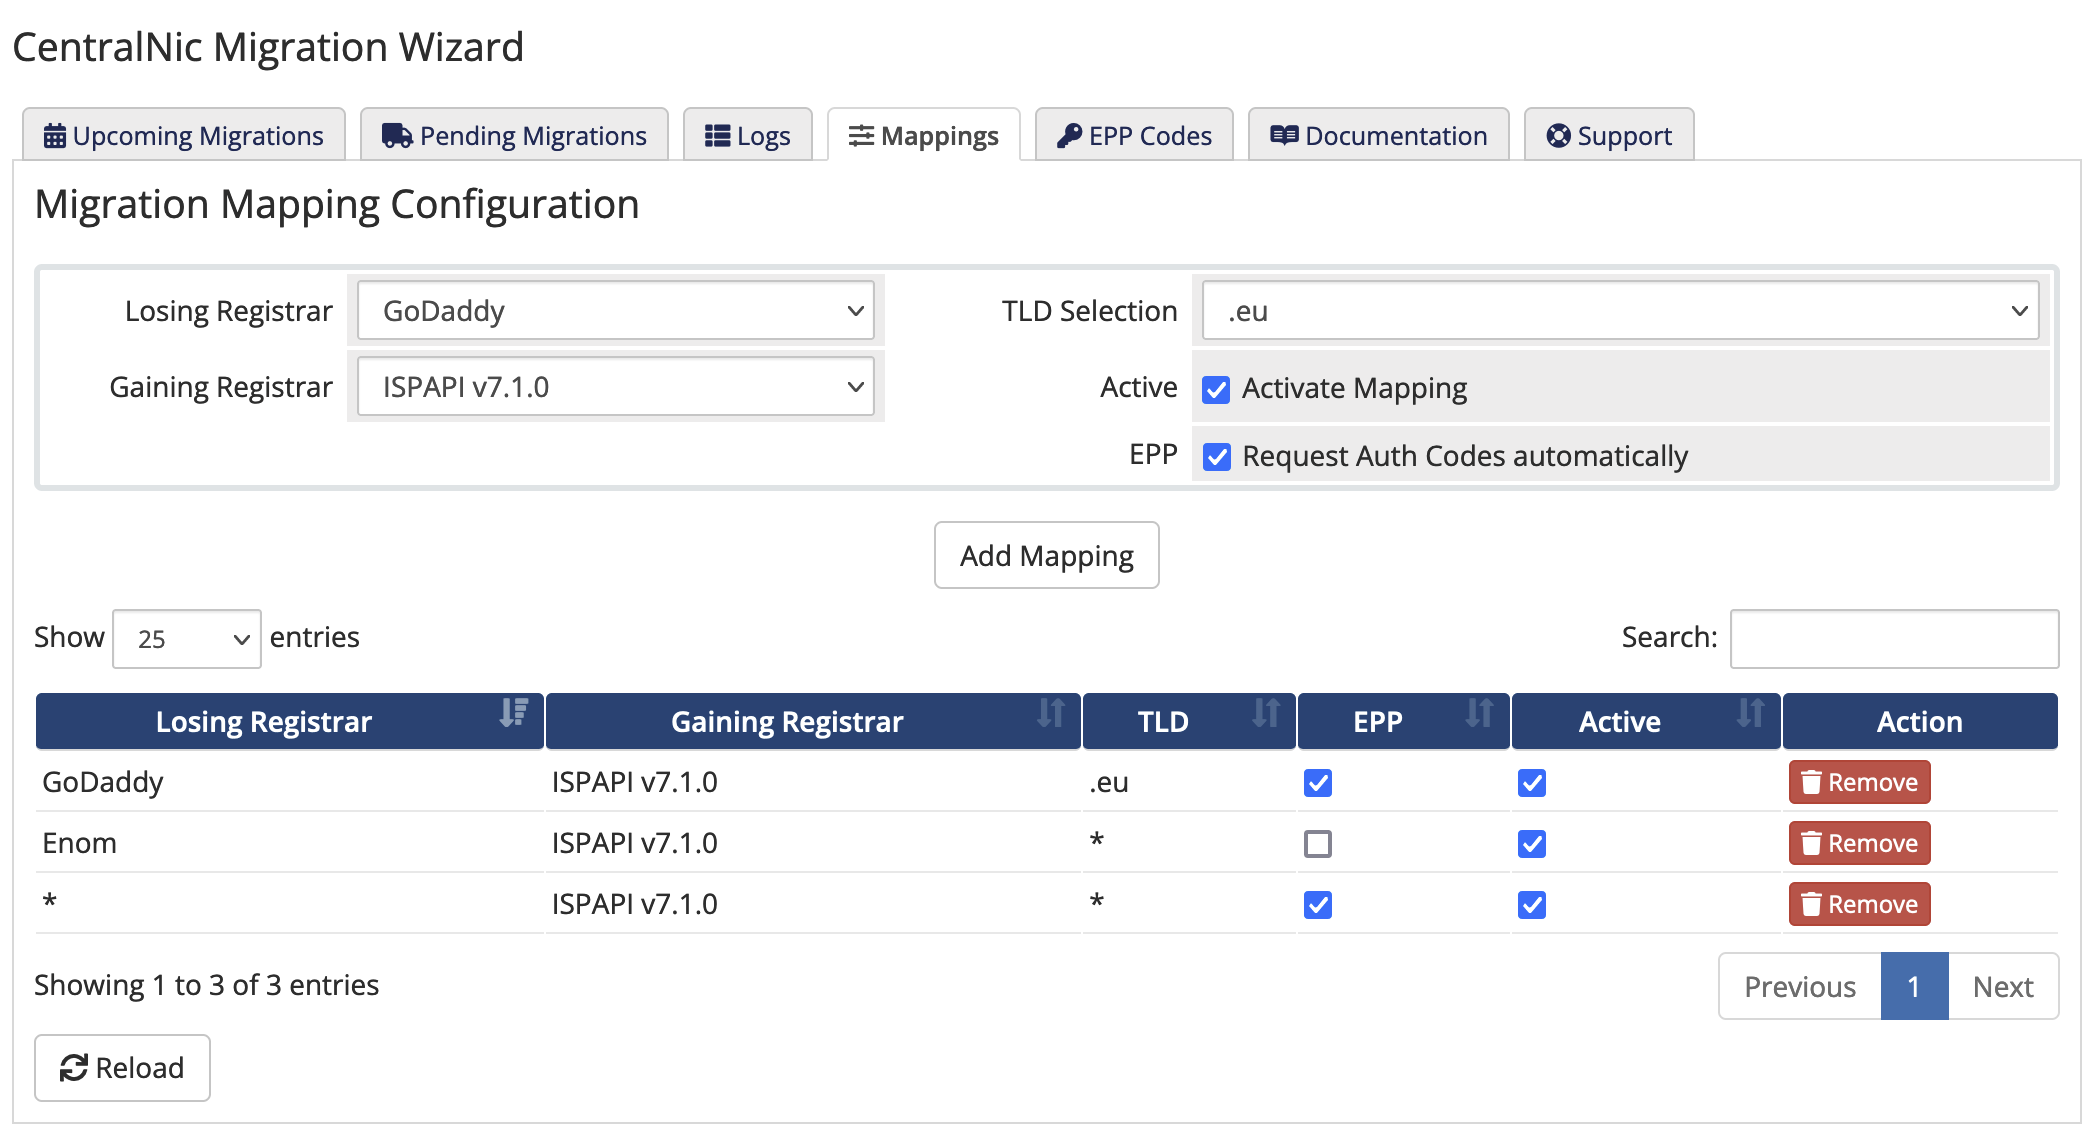
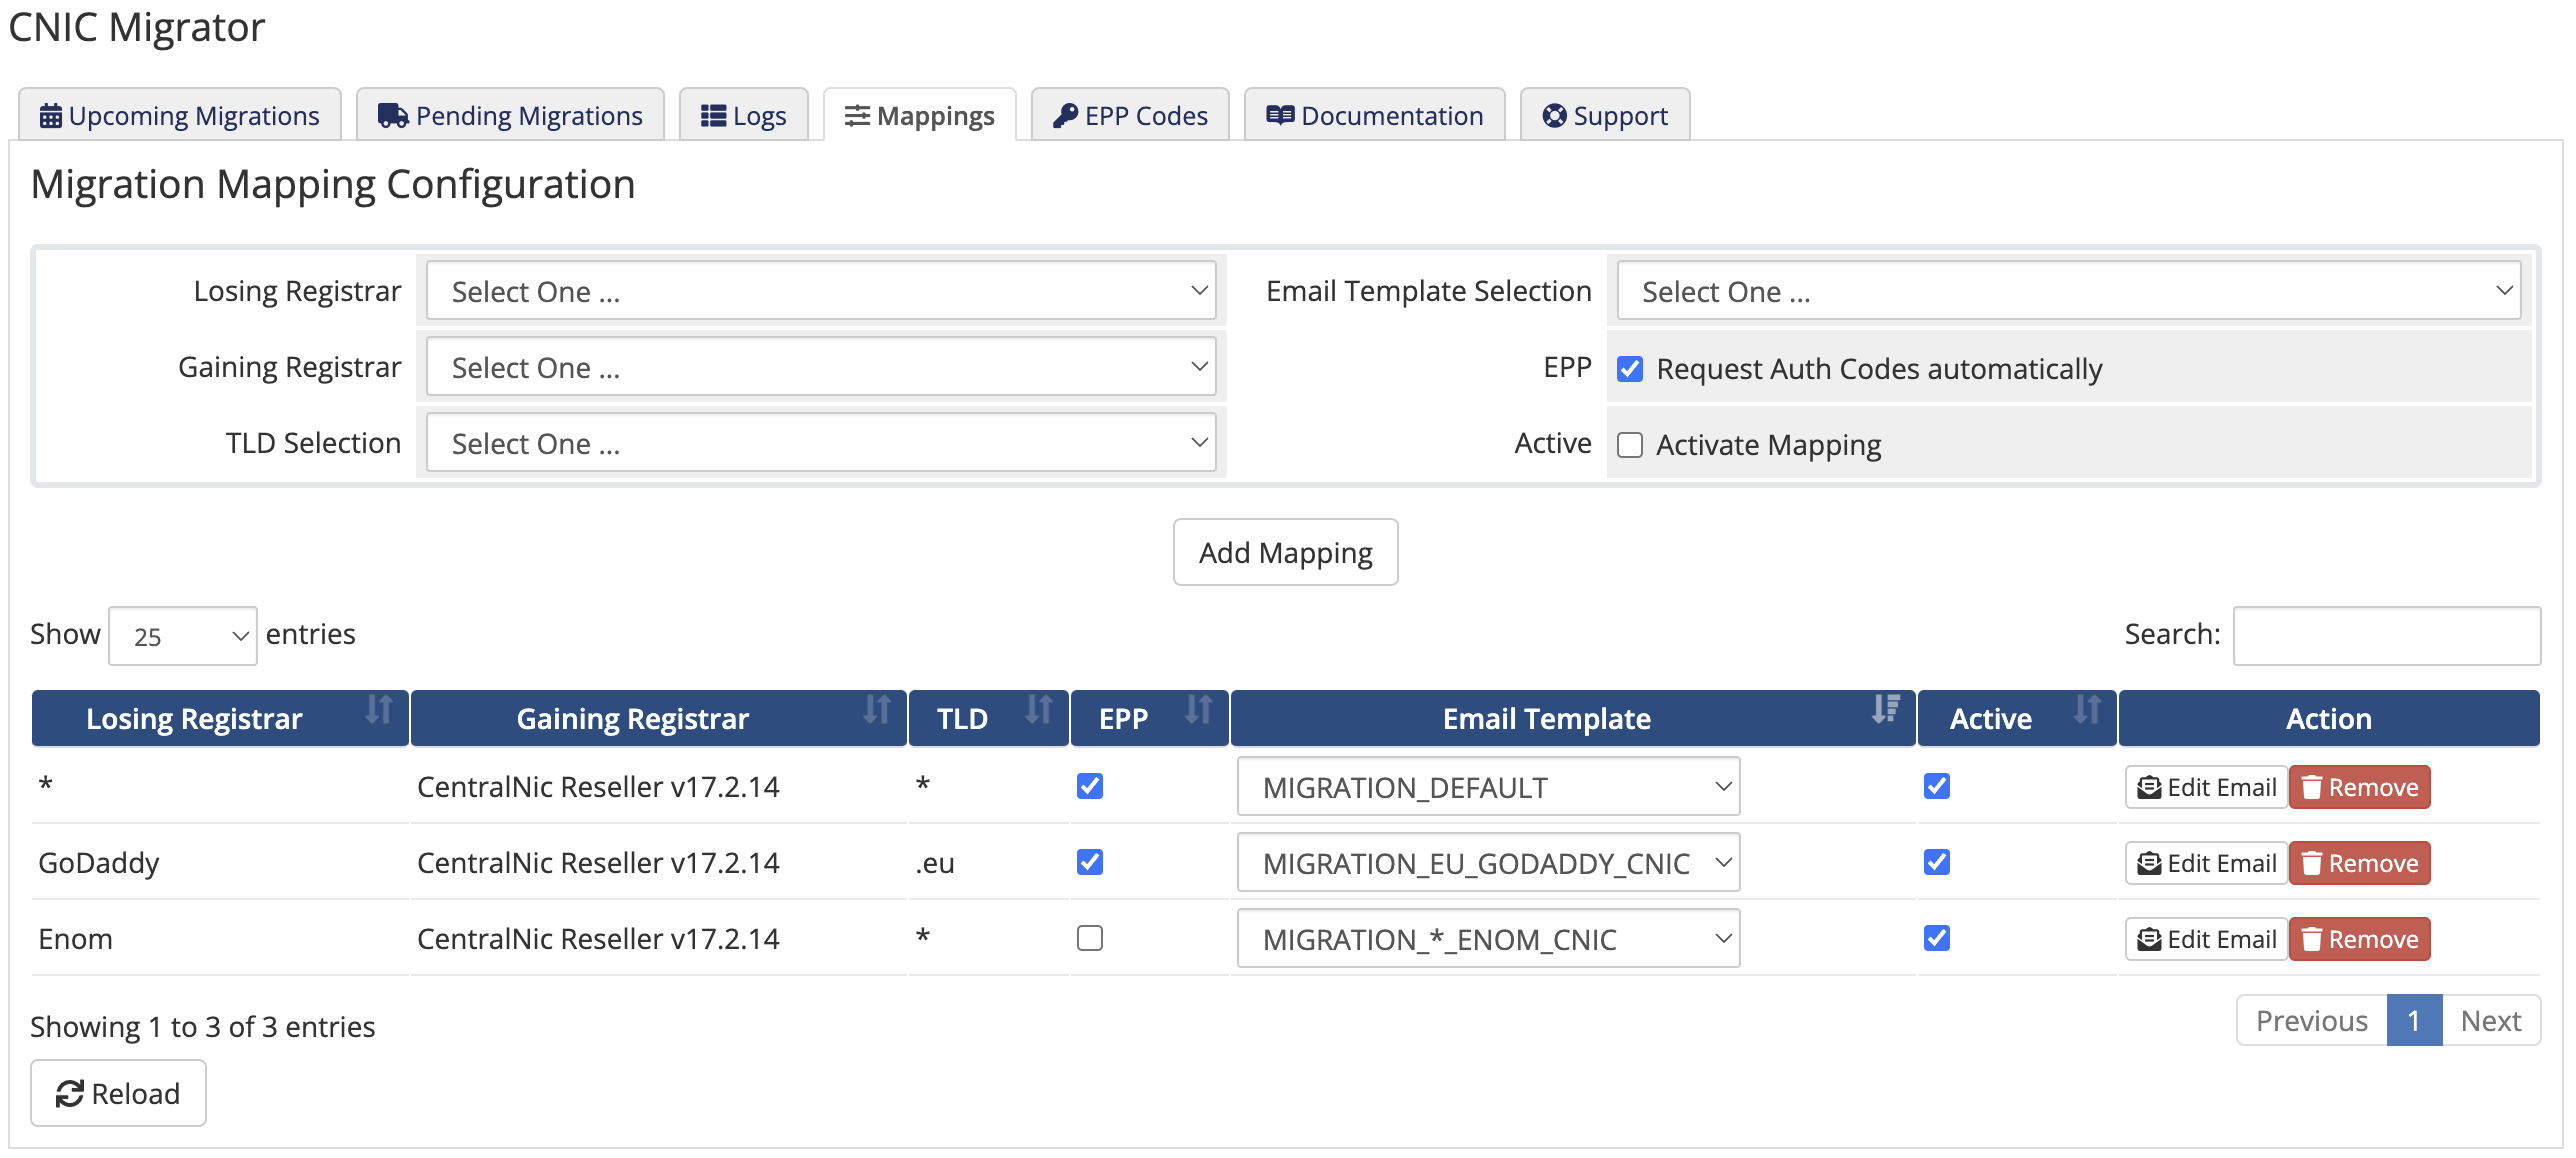
docs(migrator addon): update migrator addon documentation

diff --git a/_includes/whmcs-migration.md b/_includes/whmcs-migration.md
@@ -52,8 +52,6 @@ Download available via [WHMCS Marketplace](https://marketplace.whmcs.com/product
 
 **Don't touch files where the filename starts with `dist.*`. That are default files and templates, partially used as fallback or within automated tests. Follow the below instructions to get this tool correctly up and running.**
 
-{% include whmcs-bundle-upgrade.md %}
-
 Finally, navigate to `Configuration > System Settings > Addon Modules` in your WHMCS Admin Area, then click on `Activate` next to the `CNIC Migrator` listing.
 
 ### Re-Configure WHMCS
@@ -95,7 +93,7 @@ In the WHMCS Admin Area, navigate to `Addons > CNIC Migrator`, then click on the
 
 ![adminareaerror]({{ 'assets/images/whmcs/cnic-migration/mappings.png' | relative_url }})
 
-Here you can define your desired mappings, specifying the desired losing and gaining registrars, any specific TLD, and wether the migrator should automatically retrieve the EPP auth codes via the losing registrar's WHMCS module.
+Here you can define your desired mappings, specifying the desired losing and gaining registrars, any specific TLD, and wether the migrator should automatically retrieve the EPP auth codes via the losing registrar's WHMCS module. You can also specify which e-mail template you want to use for client notifications.
 
 ### EPP/Authorization Codes
 
@@ -104,6 +102,7 @@ The migrator will attempt to retrieve the EPP code automatically via the losing 
 Some registrars however, do not support this functionality. Their module will return an error, but send the code out to the current registrant's email address instead. So, not reliable for real-time processing. A good example is the registrar Enom.
 
 As a workaround, you should get hold of the EPP codes manually (for example by requesting it and having your customer send you the code they recieve via e-mail). Then, you can specify those EPP codes beforehand in the `EPP Codes` tab in the Addon.
+You may also upload a CSV file containing a list of domains with their respective EPP codes.
 
 ![adminareaerror]({{ 'assets/images/whmcs/cnic-migration/epp.png' | relative_url }})
 
@@ -119,64 +118,23 @@ By default this tool is also sending mails to you, the reseller, to allow a bit 
 
 ### Client Email Templates
 
-This migration tool comes with a `default` email template in english that will be used for mail-out to **your clients**. You can define more languages, customized subjects and messages, as well as TLD-specific messages. Later, you can check the `System Email Message Log` in WHMCS for mails sent to your clients and view them.
+This migration tool comes with a `MIGRATION_DEFAULT` email template in english that will be used for mail-out to **your clients**.
+When adding a new mapping, or editing an existing one, you can select the `*Generate new*` option, which will generate a new template.
 
-The `default` configuration entry is always used as fallback, see below. **Important is to have that empty string array key entry which represents the case "no language set"**. Without this entry the email template won't work in WHMCS as WHMCS by default selects email templates using language filter set to empty string.
+You may customize and translate any template via the WHMCS built-in Email Templates functionality.
 
-The configuration file `dist.configuration.json` contains the mappings to the email templates.
-Here is an example:
-
-```json
-{
-  "templates": {
-    "default": {
-      // <-- the default configuration entry
-      "": {
-        // <-- this one is important, just reuse the english template
-        "subject": "{$resellerLabel}: Change of domain provider for your domain {$domain_name}",
-        "file": "tpl_client_default_english.tpl"
-      },
-      "english": {
-        "subject": "{$resellerLabel}: Change of domain provider for your domain {$domain_name}",
-        "file": "tpl_client_default_english.tpl"
-      },
-      "french": {
-        "subject": "{$resellerLabel}: Changement de fournisseur de domaine pour votre domaine {$domain_name}",
-        "file": "tpl_client_default_french.tpl"
-      }
-    },
-    "com": {
-      "": {
-        // <-- this one is important, just reuse the english template
-        "subject": "{$resellerLabel}: Change of domain provider for your .COM domain {$domain_name}",
-        "file": "tpl_client_com_english.tpl"
-      },
-      "english": {
-        "subject": "{$resellerLabel}: Change of domain provider for your .COM domain {$domain_name}",
-        "file": "tpl_client_com_english.tpl"
-      },
-      "french": {
-        "subject": "{$resellerLabel}: Changement de fournisseur de domaine pour votre .COM domaine {$domain_name}",
-        "file": "tpl_client_com_french.tpl"
-      }
-    }
-  }
-}
-```
+Later, you can check the `System Email Message Log` in WHMCS for mails sent to your clients and view them.
 
 ### Email Templates Customization
 
 How to proceed:
 
-1. Rename all `templates/email/dist.*.tpl` files by removing the `dist.` at the front, e.g. `dist.tpl_client_default_english.tpl ----> tpl_client_default_english.tpl`.
-2. Rename `dist.configuration.json` to `configuration.json`. This is to avoid upgrade issues in future as upgrading will just overwrite the `dist.*` files and not your custom files.
-3. Adapt the `file` entries in `configuration.json` (do not provide a path - just the filename)
-4. Modify the .tpl files at your discretion.
+1. In the WHMCS Admin Area, go to `System Settings`
+2. Open the `Email Templates` page
+3. You will find the templates in the `Domain Messages` section and marked as `CUSTOM`.
+4. Edit the template you want to customize.
 
-NOTE: There's no need to provide a full HTML template structure including head and body in the template files, just the HTML code part you need.
-
-Even though the templates are HTML files, they are finally processed in WHMCS as [Smarty](https://www.smarty.net/docs/en/) templates and allow therefore the use of variables. This follows the principles of Smarty Syntax to use e.g. `{$someVariable}`.
-
+The templates allow the use of variables. This follows the principles of Smarty Syntax to use e.g. `{$someVariable}`.
 The following variable names are available for the client email templates:
 
 - `{$id}`: The internal ID of your domain in WHMCS (indexed no.)
@@ -256,7 +214,7 @@ $_ADDONLANG = [
 
 The migration tool will append an error identifier to make it more transparent which kind of error might have happened, e.g. `Domain Migration to the new subcontractor. Don't renew the domain.[ERROR_CONFIG]`.
 
-- `[ERROR_CONFIG:...some reason...]`: Configuration file `migration/configuration.json` couldn't be loaded (missing or invalid json). Further Details provided.
+- `[ERROR_CONFIG:...some reason...]`: Issue with module configuration. Further Details provided.
 - `[ERROR_DOMAIN_DATA]`: Domain Data couldn't be loaded over WHMCS - should never happen
 - `[ERROR_AUTH_CODE:...some reason...]`: Getting the EPP/Authorization code of the domain did not work. Further Details provided.
 - `[ERROR_REG_MODULE]`: Loading the gaining registrar's registrar module failed or the module is not activated or not integrating the `TransferDomain` method
